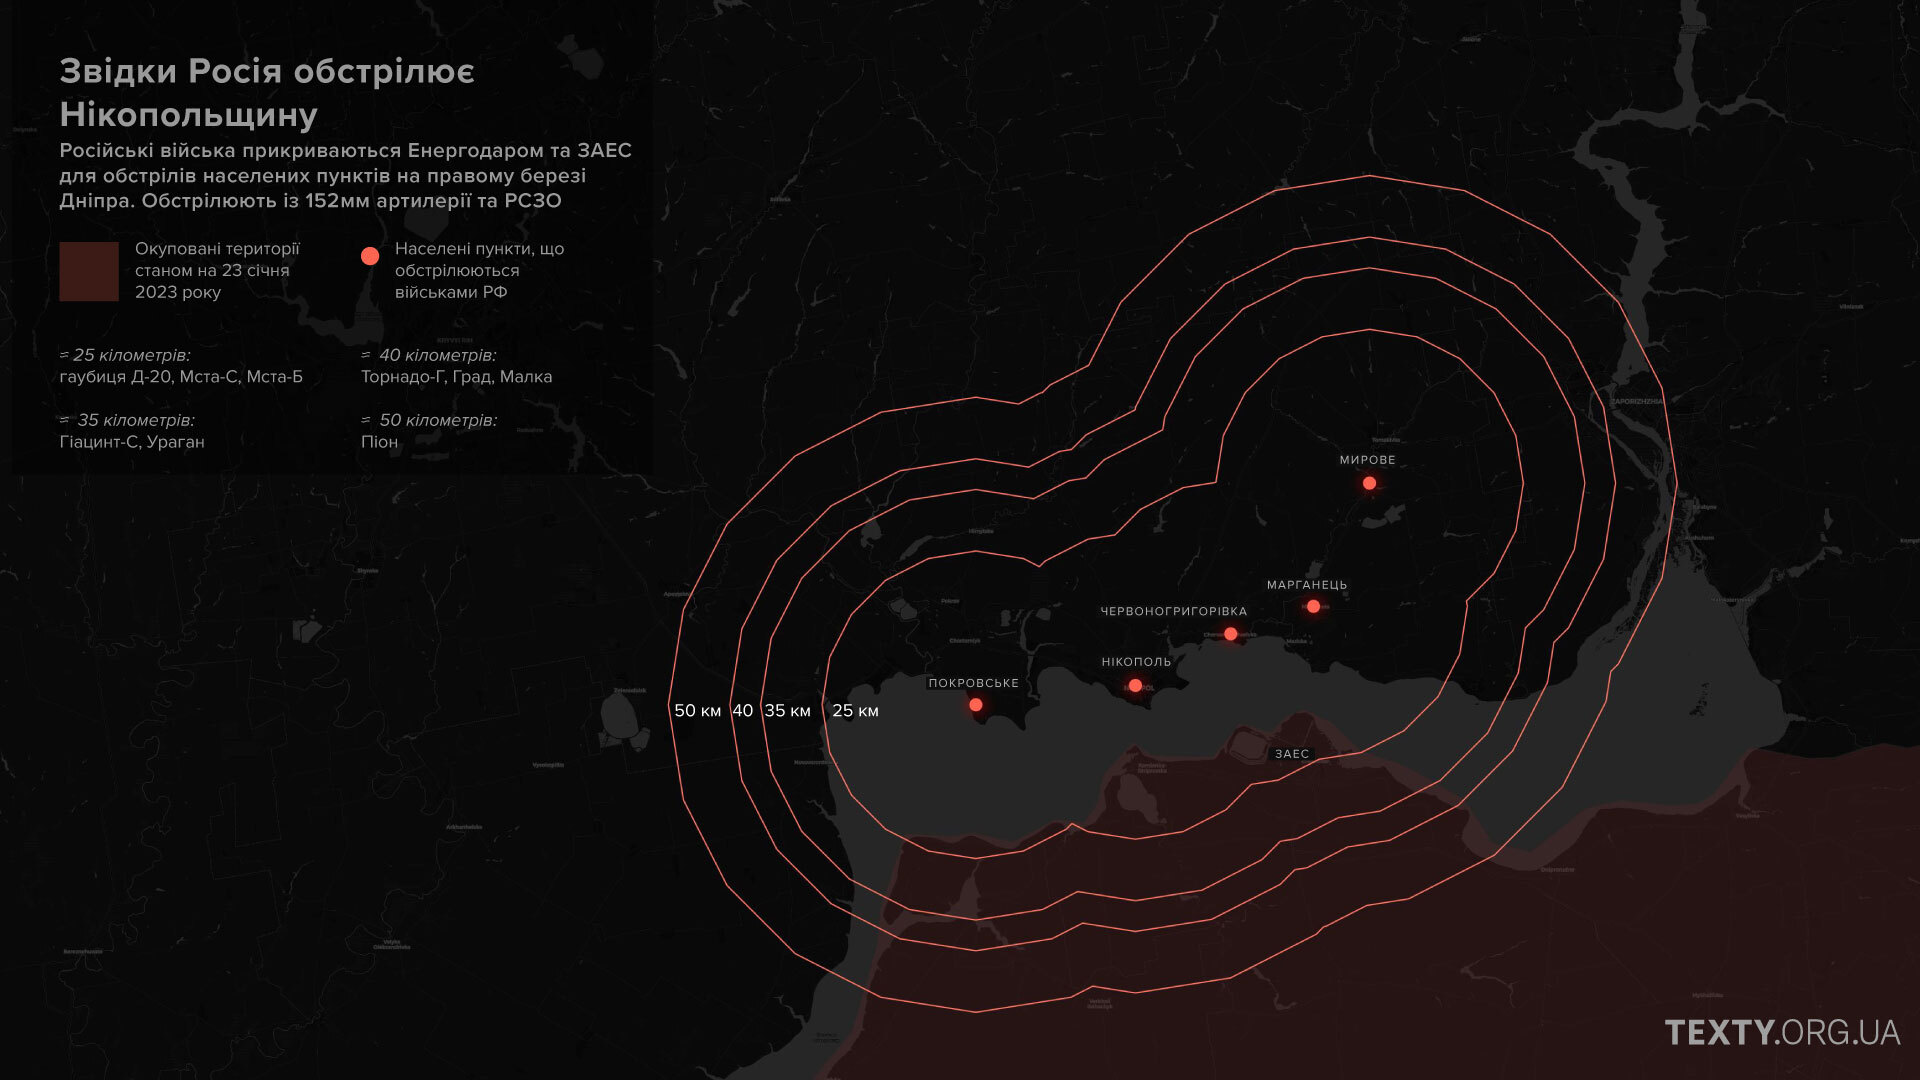
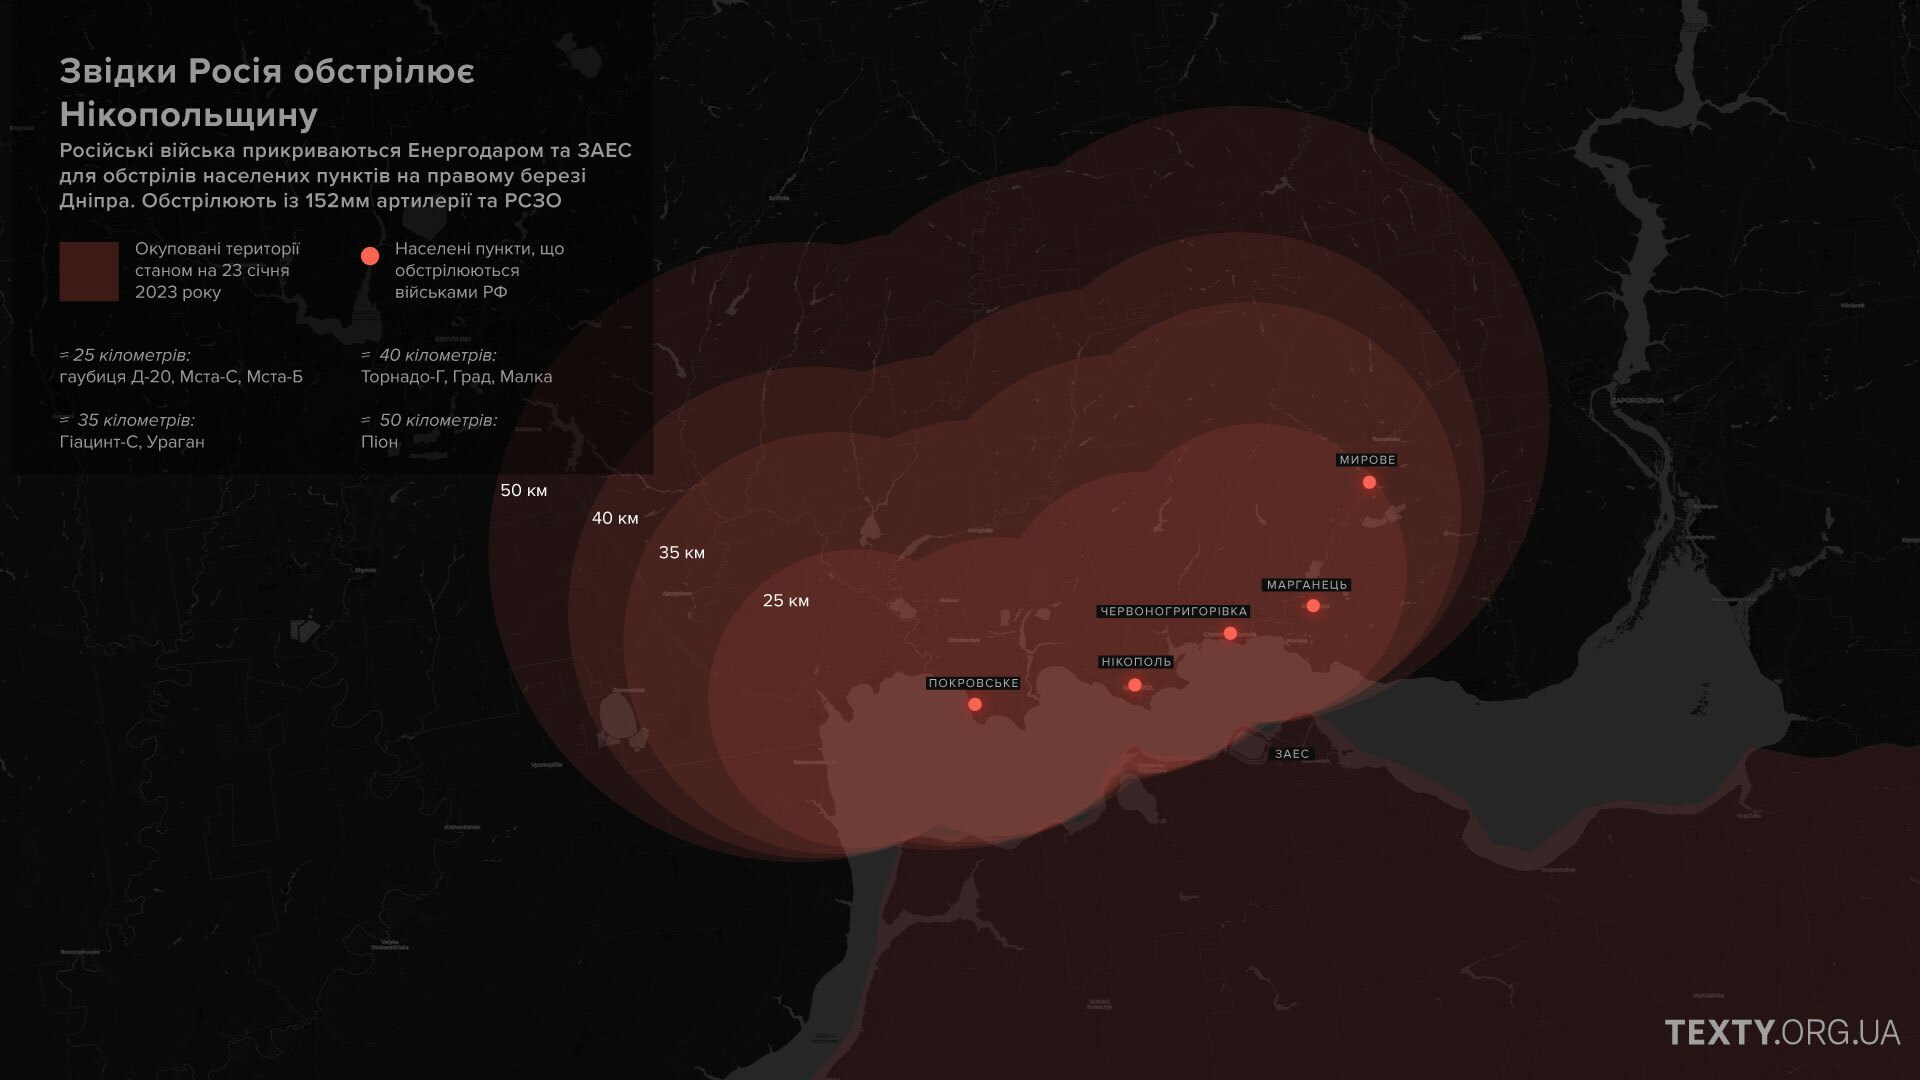
draft

Changed region(s): [[0.25, 0.0917, 0.8438, 0.825], [0.75, 0.7028, 0.7812, 0.7333]]

diff --git a/index.html b/index.html
@@ -395,7 +395,7 @@
     <h2>Обстріли Нікополя з Енергодара</h2>
     <p>З середини березня 2022 року російська армія почала обстрілювати населені пункти на протилежному від станції березі Дніпра, користуючись територією ЗАЕС як щитом. Експерти Conflict Intelligence Team підтвердили, що ракетний обстріл здійснюють з території в районі ЗАЕС. </p>
 
-    <p class="static-map-caption">Зона досяжності російської зброї, розміщеної на ЗАЕС</p>
+    <p class="static-map-caption">Зона досяжності російської зброї, розміщеної неподалік Дніпра</p>
 </div>
 
 <!-- Static map -->
